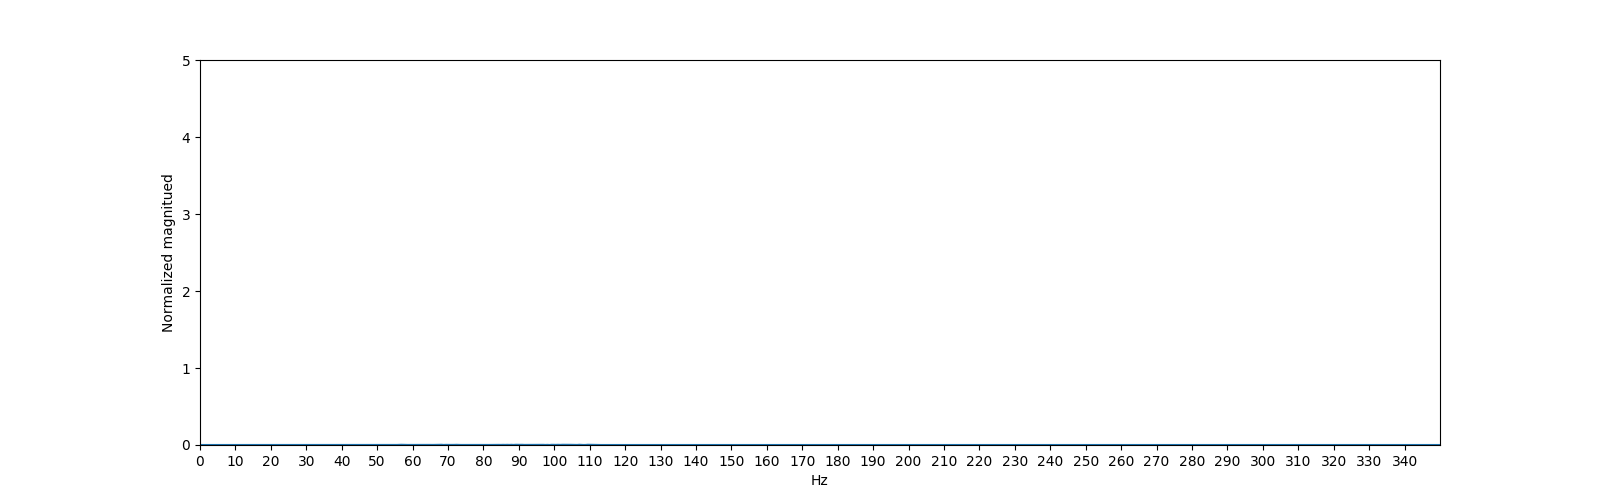
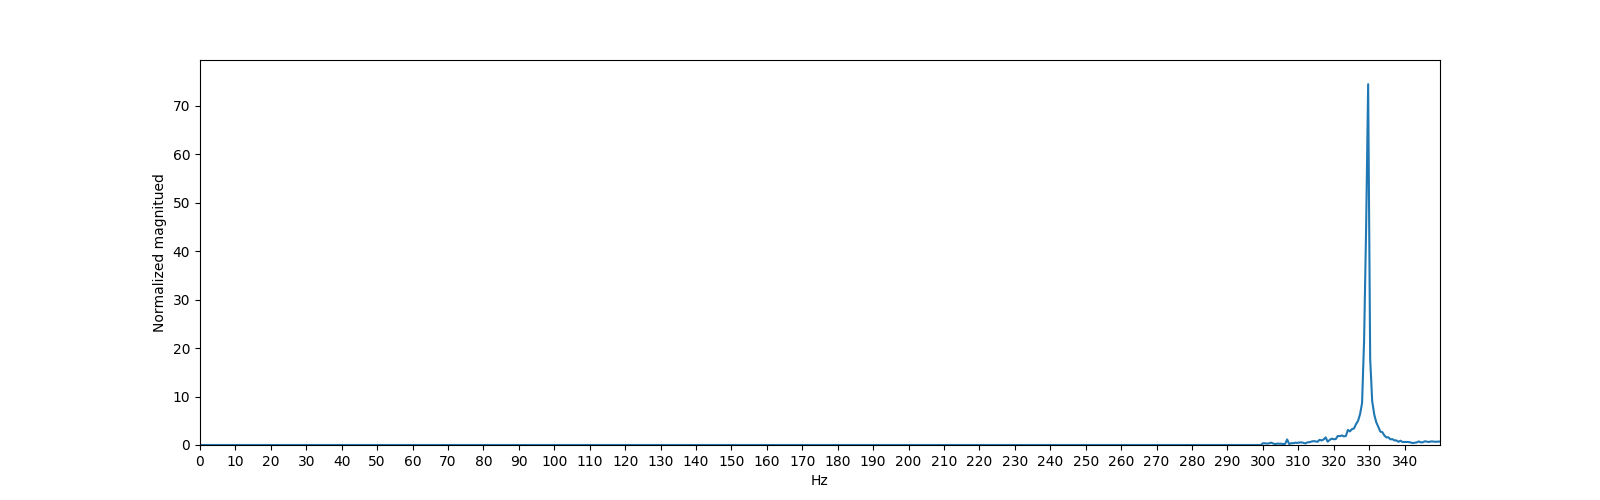
Server takes in selected string

diff --git a/server/frequency_api.py b/server/frequency_api.py
@@ -1,4 +1,6 @@
 #!/usr/bin/env python3
+import os
+import sys
 import audioread
 from flask import Flask, request  # import main Flask class and request object
 from flask_cors import CORS
@@ -17,19 +19,12 @@ import numpy as np
 import matplotlib
 
 matplotlib.use('Agg')
-import matplotlib.pyplot as pl
+import matplotlib.pyplot as plt
 from tempfile import TemporaryFile
 import sound_analyis
 import json
 import demjson
-import os
-print(os.getcwd())
 
-sys.path.append('/ffmpeg-4.2.2')
-# !/usr/bin/env python
-
-
-# from ffprobe import FFProbe
 
 from subprocess import call
 
@@ -60,38 +55,35 @@ def allowed_file(filename):
 # Get the blob of type "audio/webm;codecs=opus"
 @app.route('/audio_record', methods=['POST', 'GET'])
 def upload_file():
-    # print("OKKKK")
     if request.method == 'POST':
-        # print("request is a post request")
-        # check if the post request has the file part
-
 
         # Getting files from request
         res = request.form['stringSelected']
         res = json.loads(res)
         plucked_string = res['stringSelected']
 
-        file = request.files['base64data']
+        file = request.files['base64data'] # The sound file
 
-        print(file)
-        audio = pydub.AudioSegment.from_mp3(file)
+        audio = pydub.AudioSegment.from_mp3(file) # Parcing the Blob to mp3
         segment_duration = len(audio)  # important property for FFT analyis
         print("Segment duration", segment_duration)
         samples = audio.get_array_of_samples()
         samples = np.array(samples)
-        print(len(samples))
+        
+
+        # Creating figure for recorded audio with matplotlib
         plt.figure(figsize=(15, 5))
         plt.plot(samples)
         plt.savefig("plot")
         outfile = TemporaryFile()
         np.save(outfile, samples)
-        print(samples)
 
+        # Uncomment for saving vibrations in a .txt file
         # np.savetxt('segment_duration.out',[segment_duration])
         # np.savetxt('test.out', samples, delimiter=',')
 
         # FFT
-        analysis = sound_analyis.Sound_analyis(samples, segment_duration, "E2")
+        analysis = sound_analyis.Sound_analyis(samples, segment_duration, plucked_string)
         max_index, desired_freq = analysis.fft_transform()
 
         comment = ''
@@ -116,38 +108,6 @@ def upload_file():
         response = json.dumps(response_dict)
         return response
 
-        '''
-        return 
-            <!doctype html>
-            <title>Upload new File</title>
-            <h1>Upload new File</h1>
-            <form method=post enctype=multipart/form-data>
-              <input type=file name=file>
-              <input type=submit value=Upload>
-            </form>
-            
-        '''
-
-
-def save_record():
-    if request.method == 'GET':
-        print("Get request first")
-        return "get request"
-    try:
-        file = request.files['base64data'].filename
-    except:
-        file = request.form['base64data']
-
-    if file and allowed_file(file.filename):
-        filename = secure_filename(file.filename)
-        file.save(os.path.join(app.config['UPLOAD_FOLDER'], filename))
-        return redirect(url_for('uploaded_file',
-                                filename=filename))
-
-    print(type(file))
-    print(file)
-
-    return "OK"
 
 if __name__ == '__main__':
     app.run(debug=True, port=5000)  # run app in debug mode on port 5000

diff --git a/server/sound_analyis.py b/server/sound_analyis.py
@@ -1,5 +1,7 @@
 import numpy as np
 import matplotlib
+from scipy.signal import argrelextrema
+
 
 matplotlib.use('Agg')
 import matplotlib.pyplot as plt
@@ -7,6 +9,7 @@ from tempfile import TemporaryFile
 
 
 class Sound_analyis:
+
     # guitar_string is one of ["E2","A","D","G","B","E4"]
     def __init__(self, samples, duration, guitar_string):
         self.frequencies = {
@@ -22,10 +25,6 @@ class Sound_analyis:
         self.guitar_string = guitar_string
 
         self.freq_limit = self.set_freq_limit(guitar_string)
-
-        # self.limit = set_freq_limit()
-        # print(f"Duration of audio {self.duration}")
-        # print("Object created...")
 
     def set_freq_limit(self,guitar_string):
         return self.frequencies.get(guitar_string)
@@ -61,36 +60,38 @@ class Sound_analyis:
         plt.xticks(np.arange(0, MAX_GUITAR_FREQUENCY, 10))
         plt.margins(0)
 
-        plt.savefig("FFT plot")
+        plt.savefig("FFT plot") # Plotting the FFT analyis
         outfile = TemporaryFile()
         # np.save(outfile, samples)
         desired_freq = self.frequencies.get(self.guitar_string)
         return max_index, desired_freq # Returns where the max frequency was and the desired frequency
 
     def filter_freq(self,f,y_norm):
-        print("THIS IS F: ", f)
+        # Setting the range where the frequencies are kept, the rest are set to 0.
         UPPER_LIMIT = (self.freq_limit + 30)
         LOWER_LIMIT = (self.freq_limit - 30)
-        print("UPPER_LIMIT:", UPPER_LIMIT )
-        print("LOWER_LIMIT:", LOWER_LIMIT )
         #indexes = np.nonzero((f > UPPER_LIMIT) & (f < LOWER_LIMIT))
 
         indexes = [(f > (UPPER_LIMIT)) | (f < (LOWER_LIMIT))] # Look for the frequency magnitude peak in only the expected ranges
-        # print("THIS IS INDEXES", indexes)
+
         for i, index in enumerate(indexes[0]):
             if (index):
                 y_norm[i] = 0
             else:
                 continue
 
+        # The next two lines might be interesting for the E2 string, because of the 3 peaks..
+        local_maximums_indeces = argrelextrema(y_norm, np.greater)
+        print("LOCAL MAXIMUMS: ", local_maximums_indeces)
+
         max_value = np.max(y_norm)
-        max_index = np.where(y_norm == max_value)
+        max_index = np.where(y_norm == max_value) # Getting the index of the max! This should be the FIRST max!
 
         freq = f[max_index]
 
         print(f"max_value: {max_value} and corresponding frequency: {freq}")
+
         return f, y_norm, max_value, freq
-# T = self.t[1] - self.t[0]
 
 if __name__ == '__main__':
 
